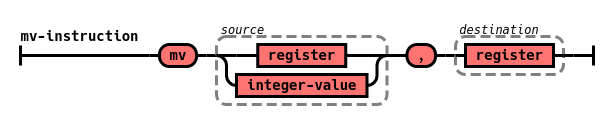
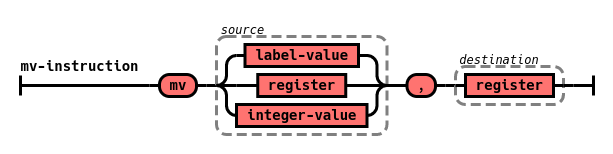
rework the grammar of 'mv' to include moving code labels

Changed region(s): [[0.031, 0.1694, 0.9918, 0.8952], [0.031, 0.2419, 0.248, 0.3387]]

diff --git a/railroad-diagrams.py b/railroad-diagrams.py
@@ -406,7 +406,8 @@ def mv_instruction():
 		Terminal('mv'),
 		Group(
 			Choice(
-				0,
+				1,
+				NonTerminal('label-value'),
 				NonTerminal('register'),
 				NonTerminal('integer-value')
 			),
@@ -493,4 +494,4 @@ def ld_instruction():
 
 	return mk_diagram('ld-instruction', inner)
 
-call_instruction().writeSvg(sys.stdout.write)
+mv_instruction().writeSvg(sys.stdout.write)
